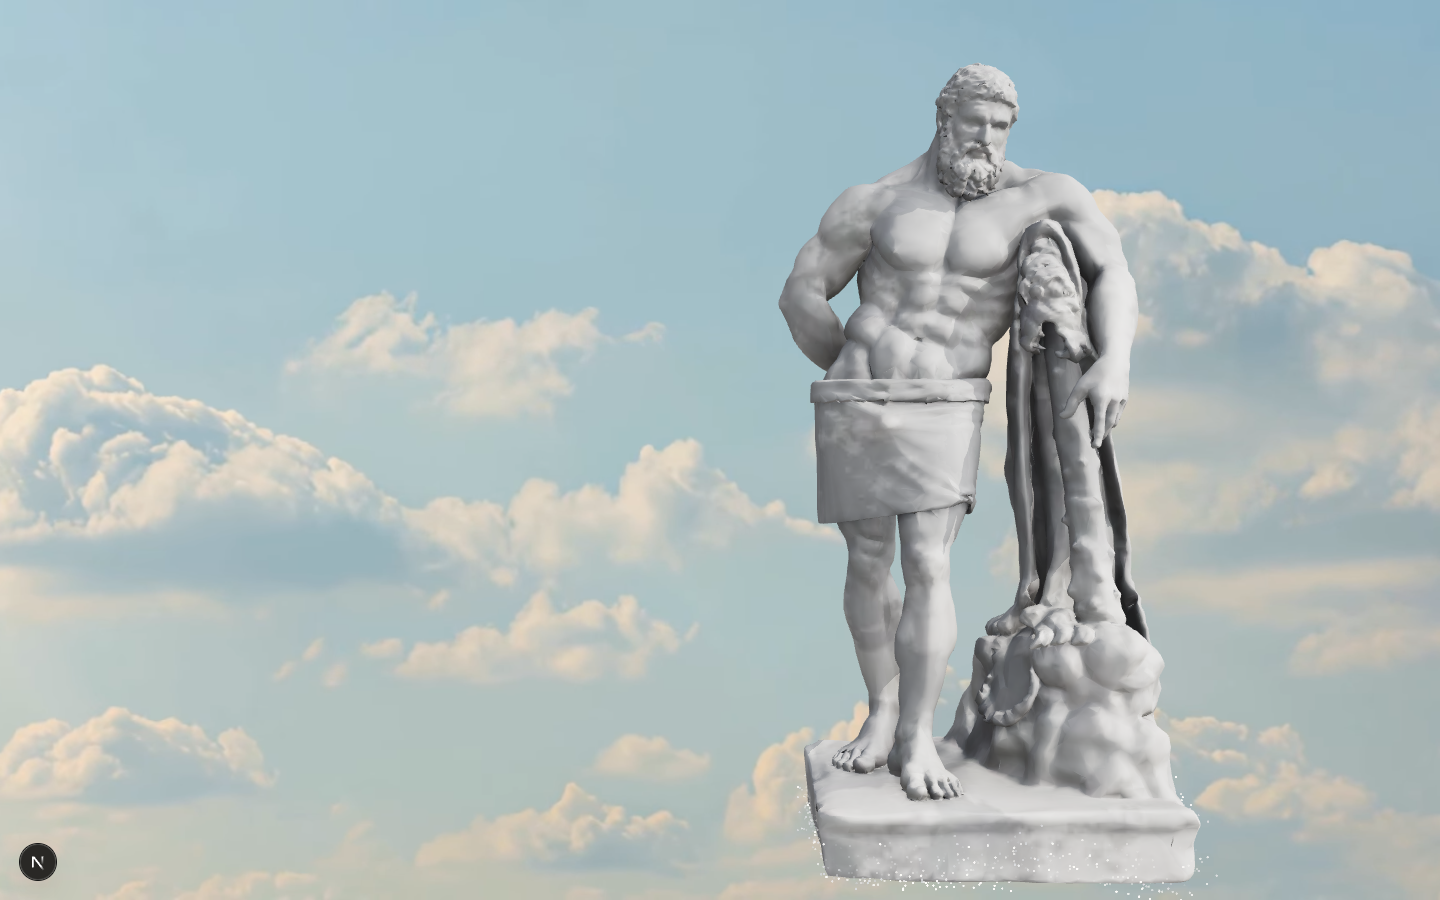
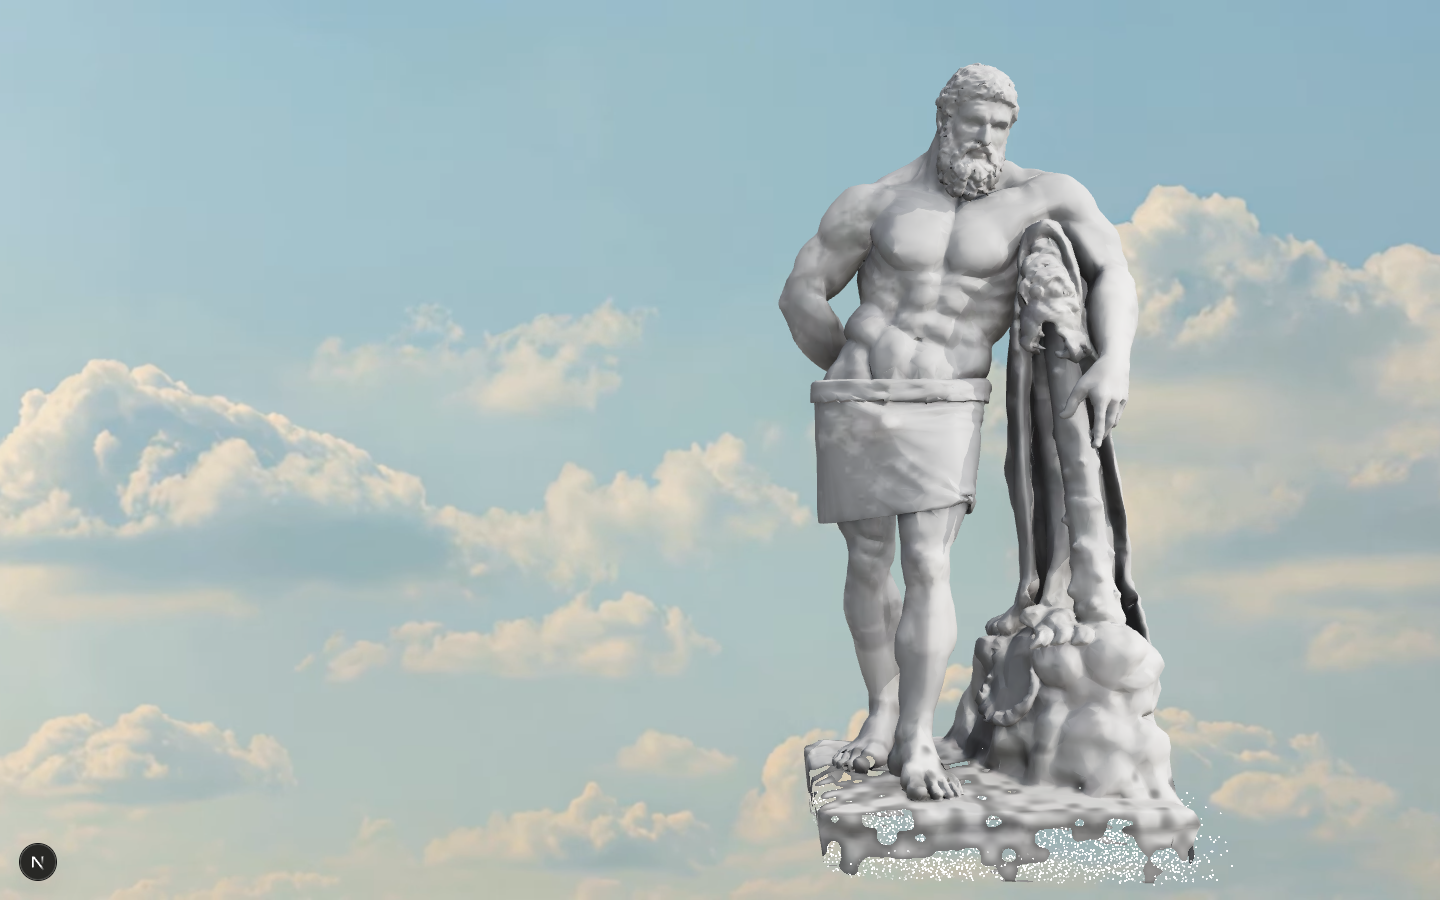
Vaporise reworked: mesh crumbles from the feet along a grainy cut, marble dust blown right by wind and turbulence, square pixel motes, gentler camera push
Claude-Session: https://claude.ai/code/session_01NAdPXLUXCGhh82qBsMYyAh

diff --git a/src/hero/Morph.tsx b/src/hero/Morph.tsx
@@ -57,28 +57,23 @@ const vert = /* glsl */ `
     float t = clamp((uProgress - delay * uSpread) / (1.0 - uSpread), 0.0, 1.0);
     float te = easeOut(t);
     vT = t;
-    // journey: normal push, curl swirl that peaks mid flight, then a wide scatter and a rise into the sky
-    vec3 dir = normalize(hash3(vec3(seed * 7.1, seed * 3.3, seed * 9.7)) + nrmA * 0.6);
+    // crumble: a small break away from the surface, then the wind takes over, with turbulence riding on it
+    vec3 jitter = normalize(hash3(vec3(seed * 7.1, seed * 3.3, seed * 9.7)));
+    vec3 wind = normalize(vec3(1.0, 0.22, 0.15));
     vec3 p = position;
-    p += nrmA * te * 0.12;
-    p += curl(position * 2.2 + vec3(0.0, uTime * 0.05, 0.0)) * sin(t * 3.14159) * 0.22;
-    p += dir * te * te * uScatter;
-    p.y += te * te * uRise + sin(seed * 40.0 + uTime) * 0.02 * te;
-    // fade: appear as the mesh leaves, thin out as they reach the sky
-    vFade = smoothstep(0.0, 0.06, t) * (1.0 - smoothstep(0.62, 1.0, t));
-    // colour: marble, then a spectrum keyed on height and seed, with a hot flash around the middle
-    float hue = fract(position.y * 0.35 + seed * 0.4 + 0.55);
-    vec3 spectrum = 0.55 + 0.45 * cos(6.28318 * (hue + vec3(0.0, 0.33, 0.67)));
-    float flash = exp(-pow((t - 0.45) / 0.09, 2.0));
-    // the baked colour carries occlusion, which reads as grey grit on unlit points: lift it toward marble white
+    p += nrmA * smoothstep(0.0, 0.25, t) * 0.03;
+    p += curl(position * 1.6 + vec3(uTime * 0.08, 0.0, 0.0) + t * 1.5) * (0.06 + 0.5 * t) * t;
+    p += (wind + jitter * 0.35) * te * te * uScatter * (0.8 + 0.4 * seed);
+    p.y += te * te * uRise * (0.5 + seed);
+    // visible the moment the surface lets go, gone as it thins into the sky
+    vFade = smoothstep(0.0, 0.02, t) * (1.0 - smoothstep(0.35, 1.0, t));
+    // it stays stone: baked colour lifted out of its occlusion, drifting toward the sky's tint as it thins
     vec3 marble = clamp(colA * 1.35 + 0.08, 0.0, 1.0);
-    vec3 col = mix(marble, spectrum, smoothstep(0.1, 0.6, t));
-    col = mix(col, vec3(1.0), flash * 0.85);
-    vColor = col;
+    vColor = mix(marble, vec3(0.88, 0.92, 0.97), smoothstep(0.3, 1.0, t));
     vec4 mv = modelViewMatrix * vec4(p, 1.0);
-    // dust, not confetti: about two pixels on the body, swelling to four mid flight, shrinking as it thins out
-    float size = (1.0 + 1.1 * sin(t * 3.14159)) * (1.0 - 0.45 * smoothstep(0.7, 1.0, t));
-    gl_PointSize = size * uPixelRatio * (7.5 / -mv.z);
+    // whole device pixels so every mote sits on the pixel grid: 2 on the body, 3 in flight, 1 as it thins
+    float size = (1.0 + 0.5 * smoothstep(0.0, 0.3, t)) * (1.0 - 0.5 * smoothstep(0.5, 1.0, t));
+    gl_PointSize = max(1.0, floor(size * uPixelRatio * (7.5 / -mv.z) + 0.5));
     gl_Position = projectionMatrix * mv;
   }
 `;
@@ -95,8 +90,7 @@ const frag = /* glsl */ `
     float soft = 1.0 - smoothstep(0.12, 0.25, d);
     float a = soft * vFade;
     // brighter and more additive while the dust is hot, then it settles to plain blending into the sky
-    float hot = 1.0 + 0.45 * sin(vT * 3.14159);
-    gl_FragColor = vec4(vColor * a * hot, a);
+    gl_FragColor = vec4(vColor * a, a);
   }
 `;
 
@@ -120,7 +114,7 @@ async function loadPoints(set: "desktop" | "mobile"): Promise<Buffers> {
   return { pos, nrm, col, delay, count: n };
 }
 
-export const VAPORISE = { start: BEATS.vaporise[0], end: 0.95, spread: 0.55 };
+export const VAPORISE = { start: BEATS.vaporise[0], end: 0.97, spread: 0.6, sweep: 0.85 };
 
 export function Morph({ set = "desktop", frozen = false }: { set?: "desktop" | "mobile"; frozen?: boolean }) {
   const [buf, setBuf] = useState<Buffers | null>(null);
@@ -166,8 +160,8 @@ export function Morph({ set = "desktop", frozen = false }: { set?: "desktop" | "
       uSpread: { value: VAPORISE.spread },
       uTime: { value: 0 },
       uPixelRatio: { value: 1 },
-      uScatter: { value: 2.6 },
-      uRise: { value: 1.6 },
+      uScatter: { value: 3.4 },
+      uRise: { value: 0.7 },
     }),
     [],
   );

diff --git a/src/hero/Statue.tsx b/src/hero/Statue.tsx
@@ -22,6 +22,46 @@ export const STATUE = {
 
 const DRACO = "/draco/";
 
+/** Shared dissolve uniforms: the cut height sweeps up the figure in step with the point launches. */
+const dissolve = { uCut: { value: -1.0 }, uEdge: { value: 0.06 } };
+
+const DISSOLVE_PARS = /* glsl */ `
+  uniform float uCut;
+  uniform float uEdge;
+  varying vec3 vWorldPos;
+  float dHash(vec3 p) { return fract(sin(dot(p, vec3(127.1, 311.7, 74.7))) * 43758.5453123); }
+  float dNoise(vec3 p) {
+    vec3 i = floor(p); vec3 f = fract(p); f = f * f * (3.0 - 2.0 * f);
+    return mix(mix(mix(dHash(i), dHash(i + vec3(1,0,0)), f.x), mix(dHash(i + vec3(0,1,0)), dHash(i + vec3(1,1,0)), f.x), f.y),
+               mix(mix(dHash(i + vec3(0,0,1)), dHash(i + vec3(1,0,1)), f.x), mix(dHash(i + vec3(0,1,1)), dHash(i + vec3(1,1,1)), f.x), f.y), f.z);
+  }
+`;
+
+function withDissolve(mat: THREE.MeshStandardMaterial) {
+  mat.onBeforeCompile = (shader) => {
+    shader.uniforms.uCut = dissolve.uCut;
+    shader.uniforms.uEdge = dissolve.uEdge;
+    shader.vertexShader = shader.vertexShader
+      .replace("#include <common>", "#include <common>\nvarying vec3 vWorldPos;")
+      .replace("#include <worldpos_vertex>", "#include <worldpos_vertex>\nvWorldPos = (modelMatrix * vec4(transformed, 1.0)).xyz;");
+    shader.fragmentShader = shader.fragmentShader
+      .replace("#include <common>", "#include <common>\n" + DISSOLVE_PARS)
+      .replace(
+        "#include <dithering_fragment>",
+        `#include <dithering_fragment>
+        // crumble from the feet up along a ragged, grainy edge that matches the point delays
+        float h = vWorldPos.y / 1.8;
+        float grain = dNoise(vWorldPos * 28.0) * 0.6 + dNoise(vWorldPos * 6.0) * 0.4;
+        float edge = h + (grain - 0.5) * 0.22;
+        if (edge < uCut) discard;
+        // a faint darkening right at the edge, like stone breaking
+        float rim = 1.0 - smoothstep(0.0, uEdge, edge - uCut);
+        gl_FragColor.rgb *= 1.0 - rim * 0.35;`,
+      );
+  };
+  mat.customProgramCacheKey = () => "dissolve";
+}
+
 function prepare(scene: THREE.Group) {
   scene.traverse((o) => {
     if ((o as THREE.Mesh).isMesh) {
@@ -31,9 +71,8 @@ function prepare(scene: THREE.Group) {
       m.frustumCulled = false;
       const mat = m.material as THREE.MeshStandardMaterial;
       if (mat && "envMapIntensity" in mat) mat.envMapIntensity = 0.7;
-      mat.transparent = true;
-      mat.depthWrite = true;
       for (const t of [mat.map, mat.normalMap, mat.roughnessMap]) if (t) t.anisotropy = 8;
+      withDissolve(mat);
     }
   });
 }
@@ -64,18 +103,14 @@ export function Statue({ frozen = false }: { frozen?: boolean }) {
     if (!frozen) idle.current += STATUE.idleRadPerSec * Math.min(dt, 0.05);
     const w = 1 - ease.inOut(remap(p, BEATS.reveal[0], BEATS.reveal[1]));
     g.rotation.y = idle.current * w;
-    // the mesh leaves over the first part of the vaporise while the points take over
+    // the surface is cut away exactly where its points have launched: a point with delay d leaves when
+    // u > d * spread, and d is roughly sweep * height, so the cut height is (u / spread) / sweep
     const u = ease.smooth(remap(p, VAPORISE.start, VAPORISE.end));
-    const opacity = 1 - remap(u, 0.02, 0.2);
+    dissolve.uCut.value = u <= 0 ? -1 : u / VAPORISE.spread / VAPORISE.sweep;
+    const gone = dissolve.uCut.value > 1.3;
     const useLod0 = p < STATUE.lodSwapAt;
-    scenes.a.visible = useLod0 && opacity > 0;
-    scenes.b.visible = !useLod0 && opacity > 0;
-    for (const sc of [scenes.a, scenes.b]) {
-      sc.traverse((o) => {
-        const mm = (o as THREE.Mesh).material as THREE.MeshStandardMaterial | undefined;
-        if (mm && mm.opacity !== opacity) mm.opacity = opacity;
-      });
-    }
+    scenes.a.visible = useLod0 && !gone;
+    scenes.b.visible = !useLod0 && !gone;
   });
 
   return (

diff --git a/src/hero/CameraRig.tsx b/src/hero/CameraRig.tsx
@@ -72,8 +72,8 @@ export function CameraRig({ frozen = false }: { frozen?: boolean }) {
 
     // beat 4 lean in toward the dust
     const lean = ease.smooth(remap(p, BEATS.vaporise[0], BEATS.vaporise[1]));
-    tmpPos.z -= lean * 0.35;
-    fov -= lean * 1.5;
+    tmpPos.z -= lean * 0.12;
+    fov -= lean * 0.8;
 
     camera.position.copy(tmpPos);
     camera.lookAt(tmpLook);
